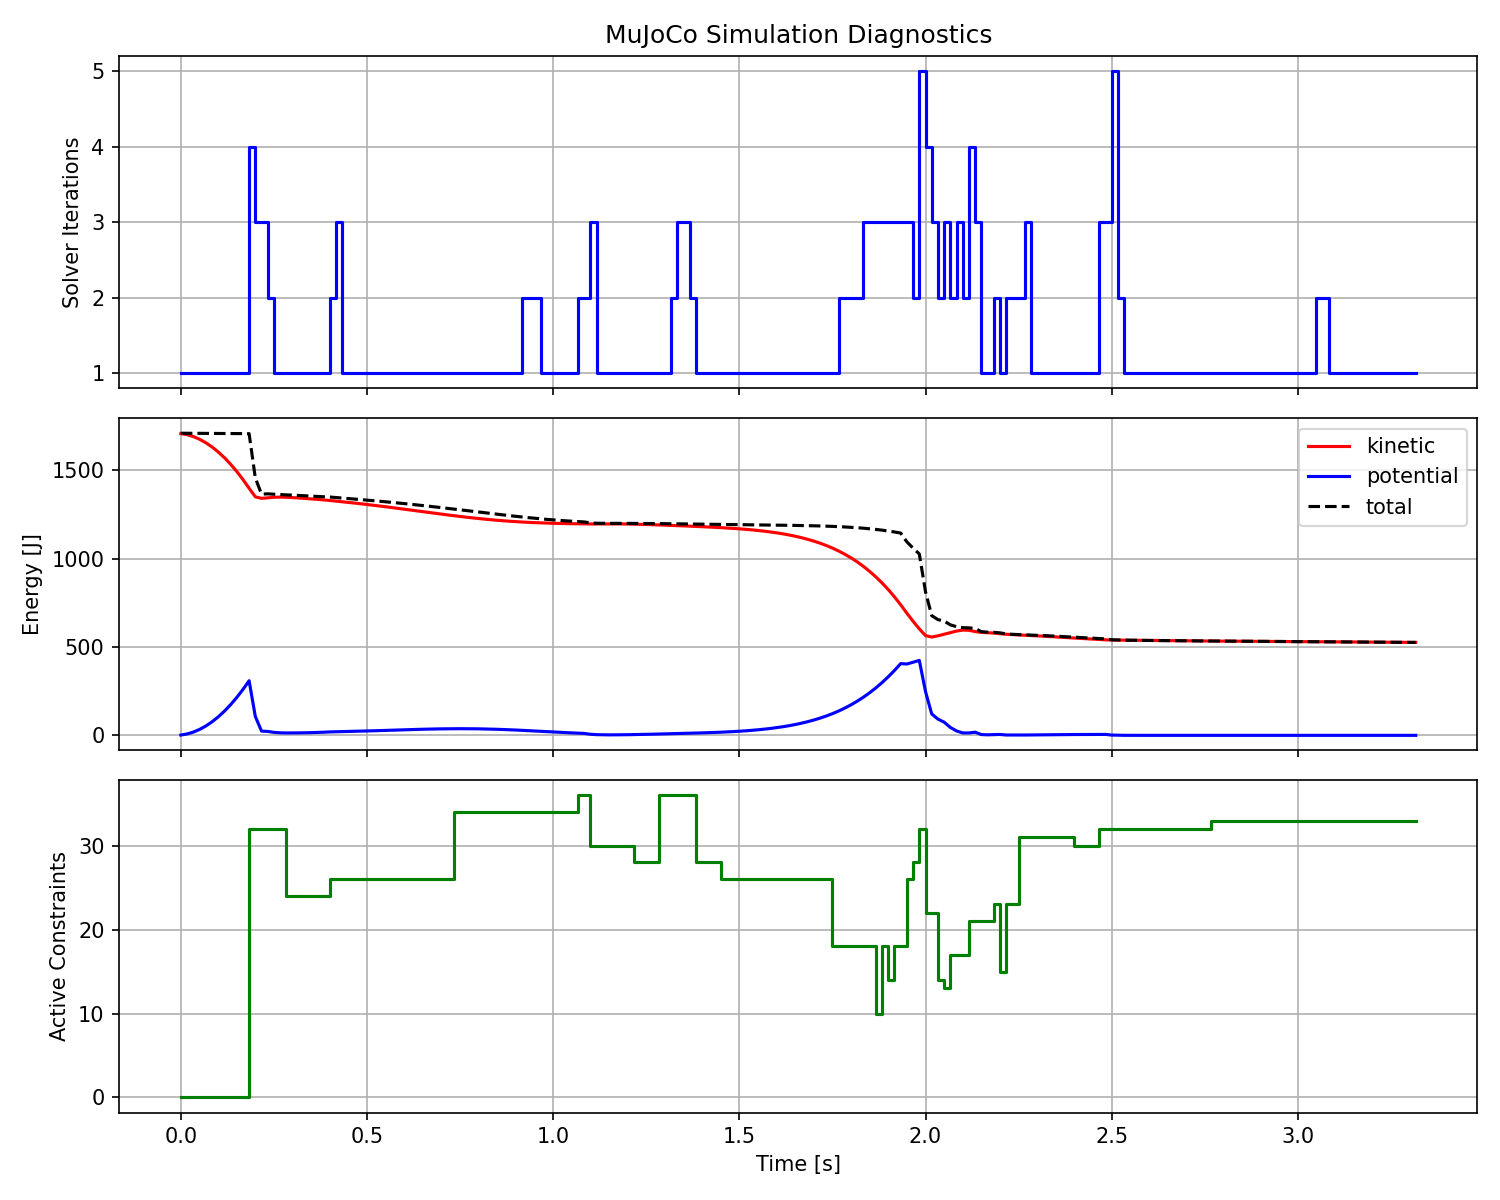
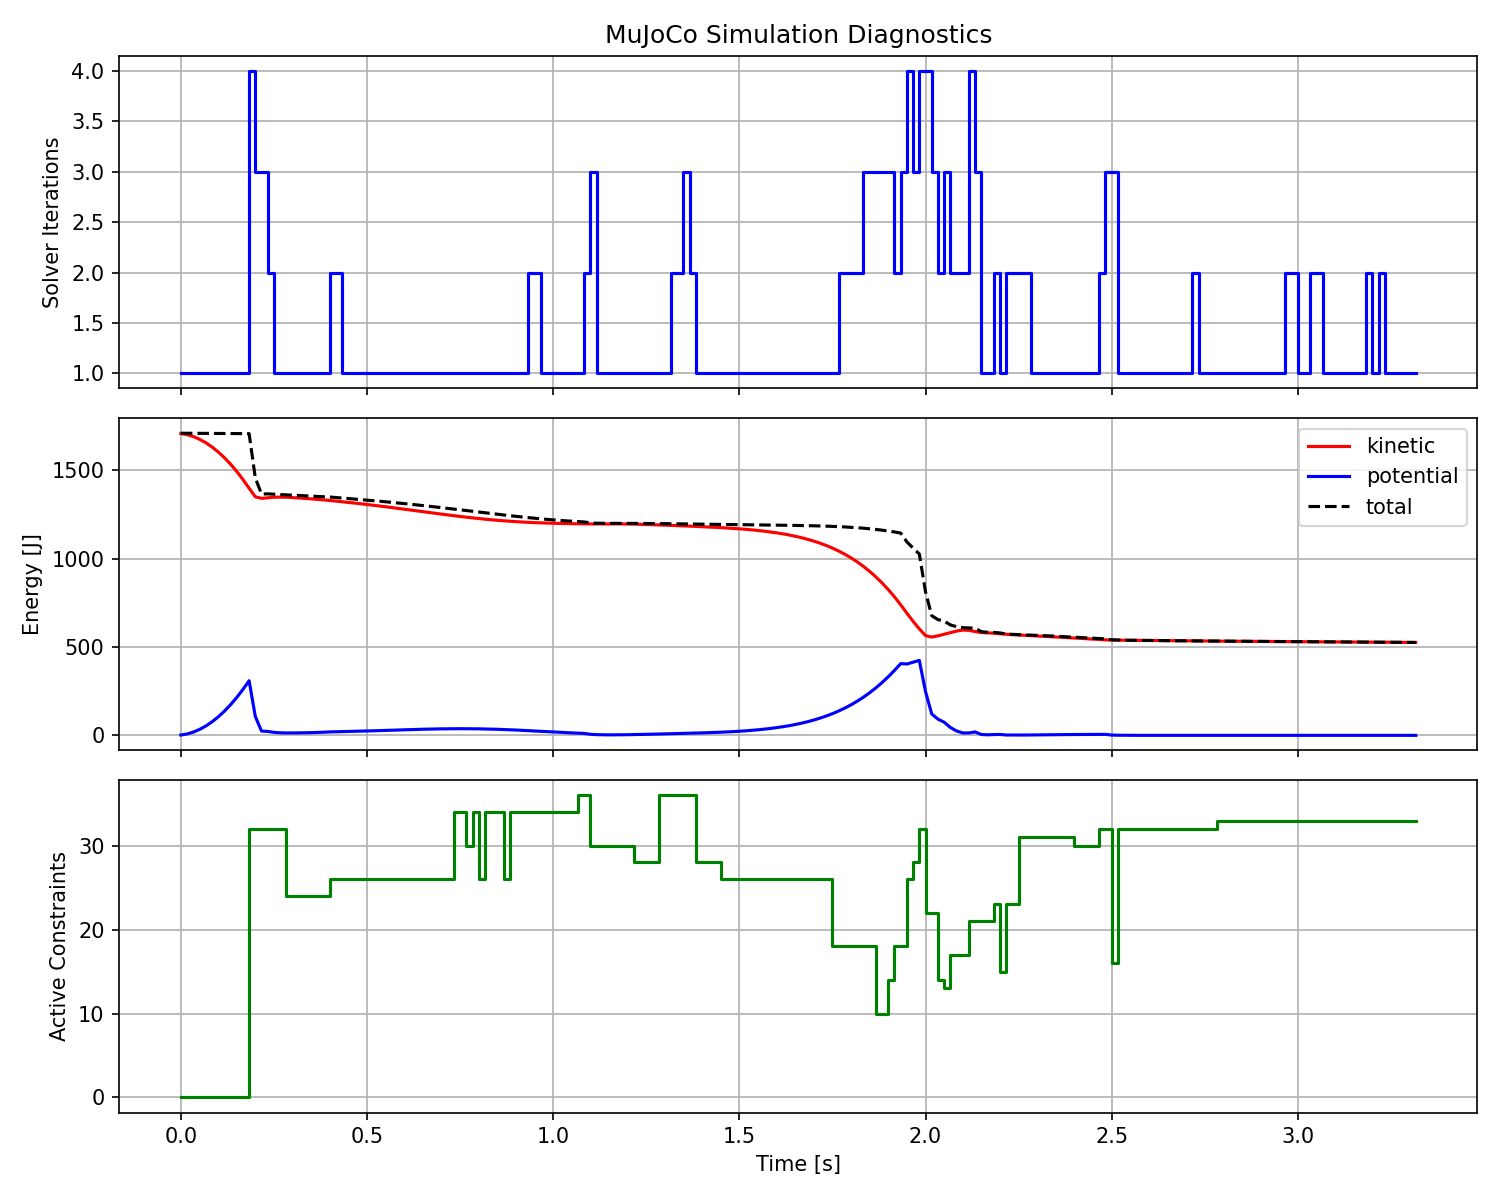
Register vehicle examples in the example test suite
Add TestVehicleExamples covering vehicle_husky (two worlds, exercising runtime
replication) and vehicle_rc_car on CPU and CUDA. Note CI coverage and the
full-suite timeout caveat in the report.

diff --git a/newton/tests/test_examples.py b/newton/tests/test_examples.py
@@ -501,6 +501,27 @@ add_example_test(
 )
 
 
+class TestVehicleExamples(unittest.TestCase):
+    pass
+
+
+add_example_test(
+    TestVehicleExamples,
+    name="vehicles.example_vehicle_husky",
+    devices=test_devices,
+    test_options={"num-frames": 240, "world-count": 2},
+    use_viewer=True,
+)
+
+add_example_test(
+    TestVehicleExamples,
+    name="vehicles.example_vehicle_rc_car",
+    devices=test_devices,
+    test_options={"num-frames": 300},
+    use_viewer=True,
+)
+
+
 class TestRobotPolicyExamples(unittest.TestCase):
     pass
 

diff --git a/docs/superpowers/reports/2026-06-12-wheeled-vehicle-redesign-report.md b/docs/superpowers/reports/2026-06-12-wheeled-vehicle-redesign-report.md
@@ -69,12 +69,19 @@ Tests live in `newton/tests/test_vehicles_*.py` and
   torque mode. → PASS.
 - **Controller** (6, MuJoCo, CPU+CUDA): **drive forward** (reaches cruise
   ≈ ω·r), **skid-steer rotate-in-place**, pipeline finite. → PASS.
-- **Examples** (headless `--test`): `vehicle_husky` drives then rotates;
-  `vehicle_rc_car` drives forward and turns under steering. → PASS.
+- **Examples** (4, registered in `test_examples.py`, CPU+CUDA, null viewer):
+  `vehicle_husky` (2 worlds — also exercises runtime replication) drives then
+  rotates; `vehicle_rc_car` drives forward and turns under steering. → PASS.
 - **Flag** (4): `PRESERVE_CONTACT_FOOTPRINT` unique bit; `ShapeConfig` round-trip.
   → PASS.
 
-Total: **40 tests pass on CPU and CUDA** (`Ran 40 tests ... OK`, ~60 s).
+Total: **40 vehicle tests + 4 example tests pass on CPU and CUDA.** Regression on
+the surfaces my changes touch also passes: collision/rigid-contact (37), model +
+shapes (67). The whole-repo `-m newton.tests` run exceeds the 10-minute tool
+timeout (its runner buffers output, so a timed-out run yields no partial
+signal); the targeted regressions above cover every file these changes touch
+(new package + an additive flag + the `newton.__init__` export), so a full pass
+is not expected to differ.
 
 ## Key decisions and deviations from the spec (with rationale)
 